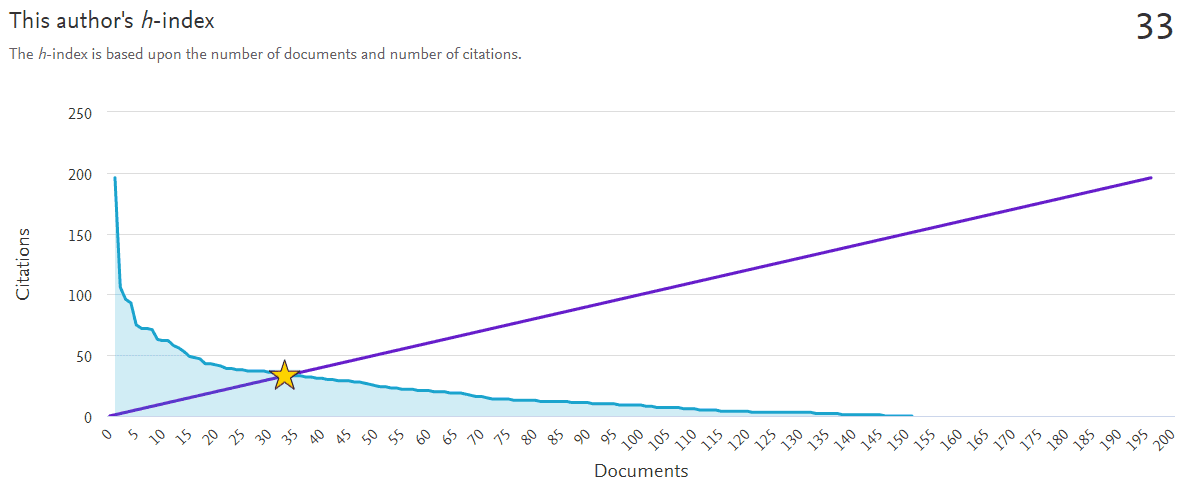
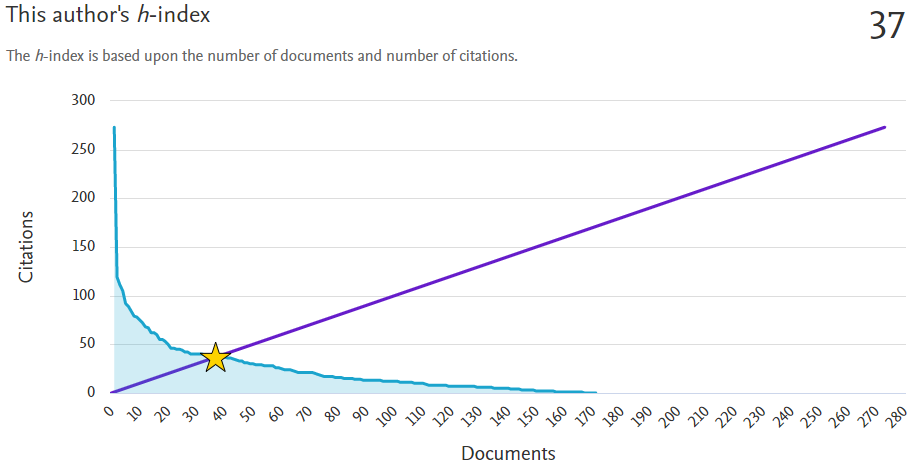
Several small fixes

diff --git a/website/templates/website/_includes/prof_metrics.html b/website/templates/website/_includes/prof_metrics.html
@@ -9,7 +9,7 @@
   <a href="https://www.scopus.com/authid/detail.uri?authorId=57195637544" target="_blank">
     <img src="{% static 'website/images/metrics/h-index-compressor.png' %}" class="figure-img img-fluid rounded" alt="h-index">
   </a>
-  <figcaption class="figure-caption text-right">Last updated: 13-12-2019</figcaption>
+  <figcaption class="figure-caption text-right">Last updated: 31-5-2021</figcaption>
 </figure>
 
 <h5 class="text-center">Publications</h5>
@@ -17,7 +17,7 @@
   <a href="https://www.scopus.com/authid/detail.uri?authorId=57195637544" target="_blank">
     <img src="{% static 'website/images/metrics/publications-compressor.png' %}" class="figure-img img-fluid rounded" alt="Publications">
   </a>
-  <figcaption class="figure-caption text-right">Last updated: 13-12-2019</figcaption>
+  <figcaption class="figure-caption text-right">Last updated: 31-5-2021</figcaption>
 </figure>
 
 <h5 class="text-center">Citations</h5>
@@ -25,7 +25,7 @@
   <a href="https://www.scopus.com/authid/detail.uri?authorId=57195637544" target="_blank">
     <img src="{% static 'website/images/metrics/citations-compressor.png' %}" class="figure-img img-fluid rounded" alt="Citations">
   </a>
-  <figcaption class="figure-caption text-right">Last updated: 13-12-2019</figcaption>
+  <figcaption class="figure-caption text-right">Last updated: 31-5-2021</figcaption>
 </figure>
 
 <h5 class="text-center">Sources</h5>
@@ -33,7 +33,7 @@
   <a href="https://www.scopus.com/authid/detail.uri?authorId=57195637544" target="_blank">
     <img src="{% static 'website/images/metrics/sources-compressor.png' %}" class="figure-img img-fluid rounded" alt="Sources">
   </a>
-  <figcaption class="figure-caption text-right">Last updated: 13-12-2019</figcaption>
+  <figcaption class="figure-caption text-right">Last updated: 31-5-2021</figcaption>
 </figure>
 
 

diff --git a/website/templates/website/tools.html b/website/templates/website/tools.html
@@ -2,6 +2,11 @@
 
 {% block content %}
 
+<!-- Disclaimer -->
+<div class="alert alert-warning" role="alert">
+  <p class="mb-0"><strong>Disclaimer</strong>: All calculators on this website are provided in good faith and are accurate to the best of our knowledge. However, EgiChem does not make any guarantees about this information. Any action you take upon the information you find here, is strictly your responsibility. Feel free to contact us if you have any questions.</p>
+</div>
+
 <!-- Online calculators - from calculators app -->
 {% include 'calculators/_includes/calculators.html' %}
 

diff --git a/calculators/templates/calculators/air_properties.html b/calculators/templates/calculators/air_properties.html
@@ -149,7 +149,9 @@
     <p>Specific heat follows a quadratic relationship:</p>
     <p>\[C_p \: \mathrm{[J \: kg^{-1} K^{-1}]} = 1030.5 - 0.19975 T + 3.9734 \times 10^{-4} T^2\]</p>
 
-    <p>Thermal diffusivity is estimated by:</p>
+    <p>Thermal diffusivity is calculated from the definition:</p>
+    <p>\[\alpha \: \mathrm{[m^2 s^{-1}]} = \frac{k}{C_p \rho}\]</p>
+    <p>Alternatively, it can be estimated by:</p>
     <p>\[\alpha \: \mathrm{[10^{-6} m^2 s^{-1}]} = -4.3274 + 4.1190 \times 10^{-2} T + 1.5556 \times 10^{-4} T^2\]</p>
 
     <p>Prandtl number is calculated by:</p>

diff --git a/calculators/templates/calculators/_includes/calculators.html b/calculators/templates/calculators/_includes/calculators.html
@@ -67,7 +67,7 @@
     </div>
   </div>
 
-  <div class="col mb-4">
+  <!-- <div class="col mb-4">
     <div class="card h-100 bg-light">
       <div class="card-body">
         <p class="card-text mb-1"><small class="text-muted">Online Calculator</small></p>
@@ -77,7 +77,7 @@
         <a href="{% url 'psychrometrics_ventilation' %}" class="btn btn-egichem">Drying/Ventilation Simulator</a>
       </div>
     </div>
-  </div>
+  </div> -->
 
     <div class="col mb-4">
     <div class="card h-100 bg-light">

diff --git a/calculators/static/calculators/airProperties.js b/calculators/static/calculators/airProperties.js
@@ -83,7 +83,8 @@ function dryAirThermalDiffusivity(temperature) {
   // Returns:
   //     float : Thermal diffusivity in m2/s
 
-  return (-4.3274 + 4.1190e-2*temperature + 1.5556e-4*temperature**2) * 1e-6;
+  // return (-4.3274 + 4.1190e-2*temperature + 1.5556e-4*temperature**2) * 1e-6;
+  return dryAirThermalConductivity(temperature) / dryAirDensity(temperature) / dryAirSpecificHeat(temperature)
 }
 
 
